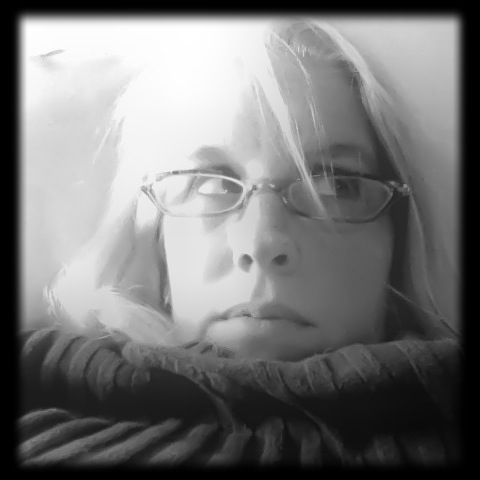
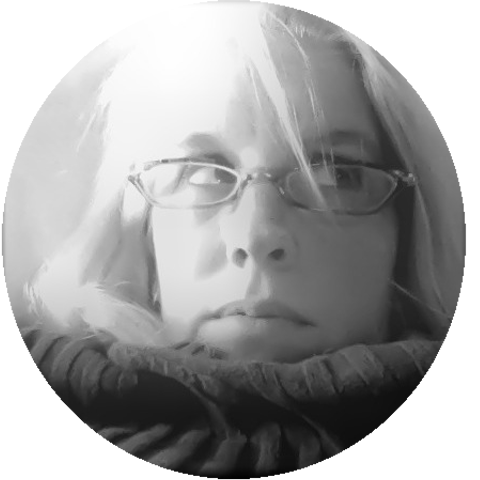
fixing background img and heather's photo on profiles page

diff --git a/index.html b/index.html
@@ -9,7 +9,7 @@
     <title>Portlandia</title>
 </head>
 <body>
-    <audio controls src="assets/WashedOut.wav" type="audio/wav"></audio>
+    <audio autoplay = "true" controls src="assets/WashedOut.wav" type="audio/wav"></audio>
     <img src="https://upload.wikimedia.org/wikipedia/en/9/98/Portlandia_title_card.png" alt="portlandia-banner">
     <div id="root"></div>
     <script type="module" src="./js/index.js"></script>

diff --git a/profiles.css b/profiles.css
@@ -79,3 +79,7 @@ header{
     -webkit-text-stroke: 2px;
     -webkit-text-stroke-color: black;
 }
+
+body {
+    background-image: url('https://s3-us-west-2.amazonaws.com/s.cdpn.io/20262/carpet.svg');
+}

diff --git a/css/index.css b/css/index.css
@@ -15,3 +15,7 @@ img {
     font-family: 'Cabin', sans-serif;
 
 }
+
+audio{
+    display: none;
+}
